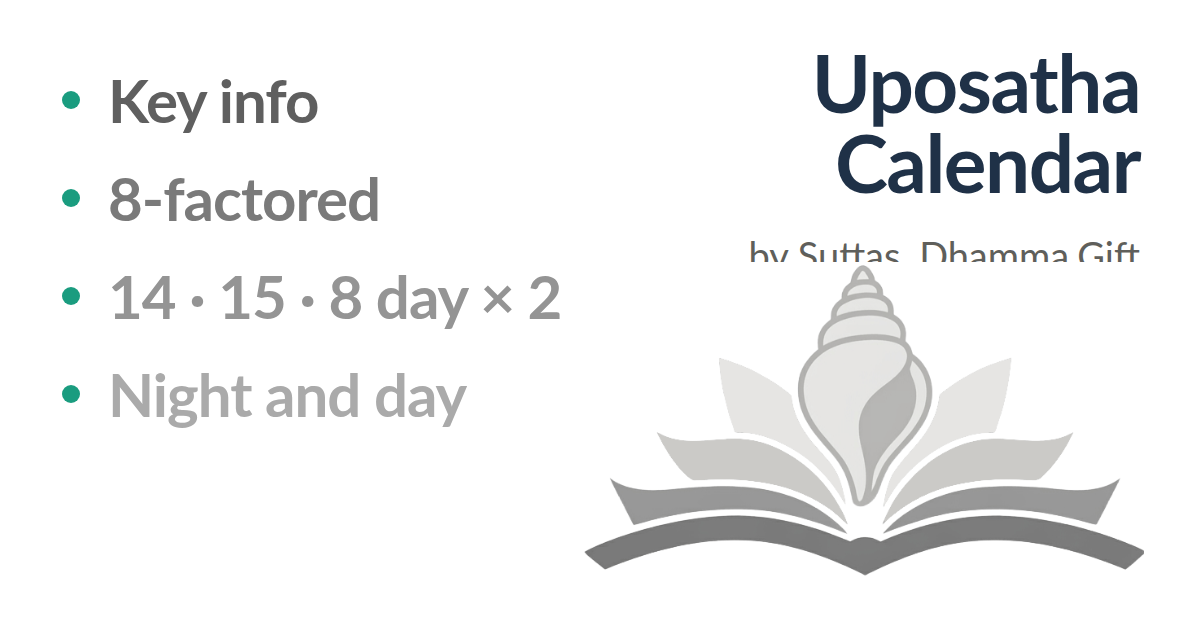
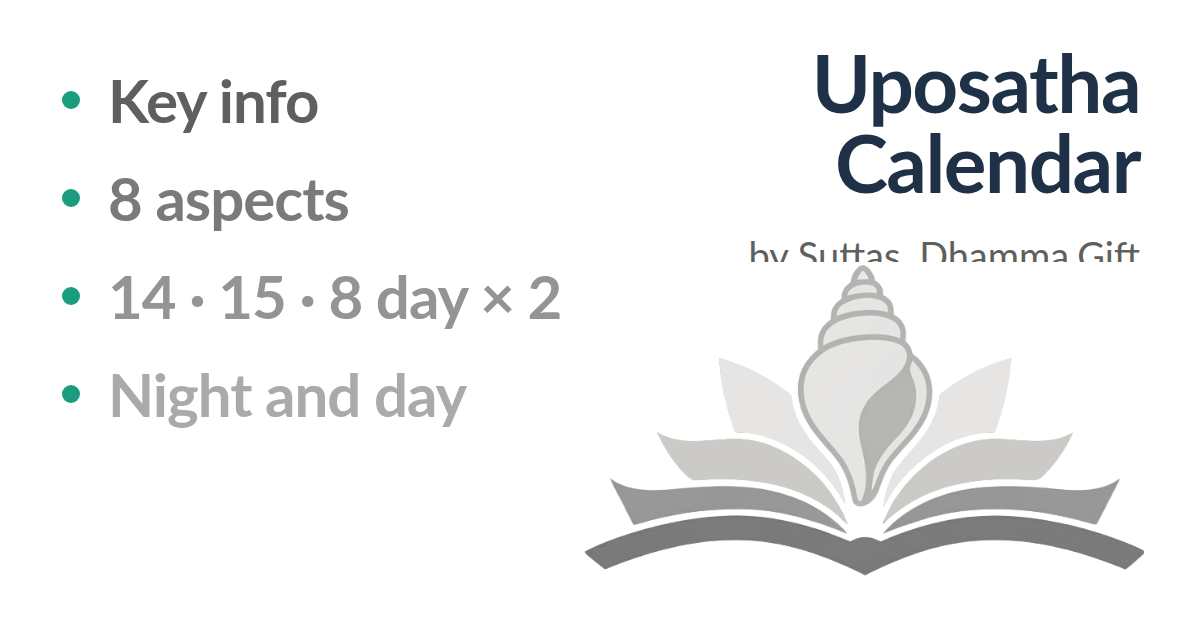
Uposatha link preview: 8 aspects (anga), not factors
Claude-Session: https://claude.ai/code/session_01E4yKH26RV8vZ6cWu3j8v2W

Changed region(s): [[0.1233, 0.2714, 0.3392, 0.3619]]

diff --git a/public/uposatha-calendar.html b/public/uposatha-calendar.html
@@ -17,7 +17,7 @@
 <meta property="og:image" content="https://dhamma.gift/assets/img/og-uposatha-en.png">
 <meta property="og:image:width" content="1200">
 <meta property="og:image:height" content="630">
-<meta property="og:image:alt" content="Uposatha Calendar by Suttas. Dhamma.Gift: key info, 8-factored, 14 · 15 · 8 day × 2, night and day.">
+<meta property="og:image:alt" content="Uposatha Calendar by Suttas. Dhamma.Gift: key info, 8 aspects, 14 · 15 · 8 day × 2, night and day.">
 <meta name="twitter:card" content="summary_large_image">
 <meta name="twitter:title" content="Uposatha Days by Suttas. Dhamma.Gift">
 <meta name="twitter:description" content="Which days, when to begin, how to keep the Uposatha, from the suttas: with exact times for your place.">
